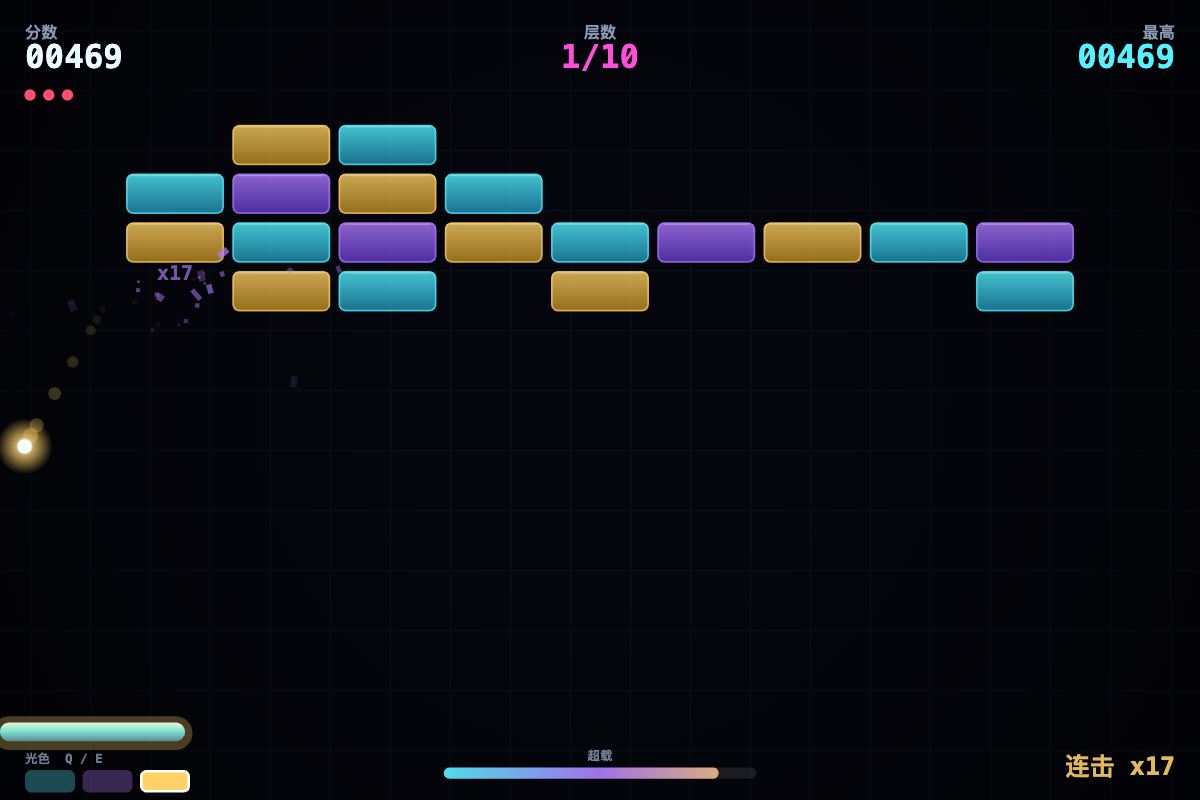
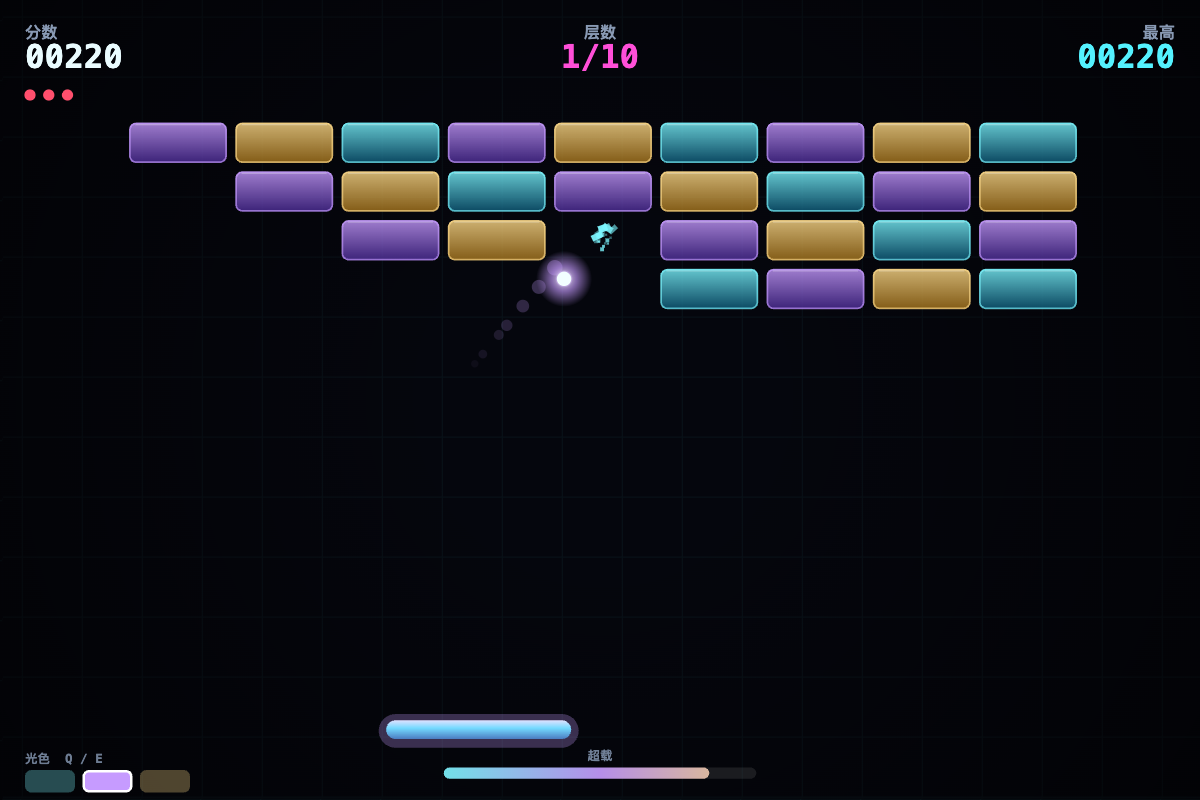
Ambient music synth, combo-fed ball speed, two hand-drawn layouts, warmer tones

diff --git a/index.html b/index.html
@@ -80,6 +80,10 @@ const Sound = {
   resume() {
     if (this.ctx && this.ctx.state === 'suspended') this.ctx.resume();
   },
+  toggle() {
+    this.on = !this.on;
+    if (this.on) { Music.start(); Sound.card(); } else { Music.stop(); }
+  },
   tone(freq, dur, type, gain, slideTo) {
     if (!this.on || !this.ctx) return;
     const t = this.ctx.currentTime;
@@ -108,6 +112,60 @@ const Sound = {
   resonance() { this.tone(880, 0.09, 'triangle', 0.05, 1760); },
   shift() { this.tone(560, 0.05, 'sine', 0.03, 760); },
   overdrive() { this.tone(120, 0.45, 'sawtooth', 0.08, 1600); },
+};
+
+/* ---------------------------- music ---------------------------- */
+
+/* A slow pentatonic pulse synth — no files, all oscillators. */
+const Music = {
+  timer: null,
+  step: 0,
+  base: [110.00, 130.81, 146.83, 164.81, 196.00, 220.00],
+  pattern: [0, 2, 4, 5, 3, 2, 1, 3],
+  start() {
+    if (!Sound.ctx || this.timer) return;
+    this.timer = setInterval(() => this.tick(), 300);
+  },
+  stop() {
+    if (this.timer) { clearInterval(this.timer); this.timer = null; }
+  },
+  tick() {
+    if (!Sound.on || !Sound.ctx) return;
+    const t = Sound.ctx.currentTime;
+    const idx = this.pattern[this.step % this.pattern.length];
+    const freq = this.base[idx] * (1 + Math.min(G.level, 20) * 0.012);
+    const osc = Sound.ctx.createOscillator();
+    const g = Sound.ctx.createGain();
+    const filt = Sound.ctx.createBiquadFilter();
+    filt.type = 'lowpass';
+    filt.frequency.setValueAtTime(900, t);
+    osc.type = 'triangle';
+    osc.frequency.setValueAtTime(freq, t);
+    g.gain.setValueAtTime(0.0001, t);
+    g.gain.exponentialRampToValueAtTime(0.014, t + 0.03);
+    g.gain.exponentialRampToValueAtTime(0.0001, t + 0.55);
+    osc.connect(filt);
+    filt.connect(g);
+    g.connect(Sound.ctx.destination);
+    osc.start(t);
+    osc.stop(t + 0.6);
+
+    // a soft shimmer an octave up every other bar
+    if (this.step % 8 === 0) {
+      const o2 = Sound.ctx.createOscillator();
+      const g2 = Sound.ctx.createGain();
+      o2.type = 'sine';
+      o2.frequency.setValueAtTime(freq * 4, t);
+      g2.gain.setValueAtTime(0.0001, t);
+      g2.gain.exponentialRampToValueAtTime(0.007, t + 0.05);
+      g2.gain.exponentialRampToValueAtTime(0.0001, t + 1.1);
+      o2.connect(g2);
+      g2.connect(Sound.ctx.destination);
+      o2.start(t);
+      o2.stop(t + 1.2);
+    }
+    this.step += 1;
+  },
 };
 
 /* --------------------------- upgrades --------------------------- */
@@ -160,9 +218,9 @@ const CARDS = [
 /* Light tones: the prism splits white light into three. Brick tone and ball tone
    matching is the core skill of the game — same tone deals double damage. */
 const TONES = [
-  { name: 'CYAN',    hex: '#54f2ff', dim: '#1e8db0' },
-  { name: 'VIOLET',  hex: '#b07bff', dim: '#5c38c4' },
-  { name: 'AMBER',   hex: '#ffd166', dim: '#b8871f' },
+  { name: 'CYAN',    hex: '#7cf6ff', dim: '#0d5a78' },
+  { name: 'VIOLET',  hex: '#c69bff', dim: '#4a2a94' },
+  { name: 'AMBER',   hex: '#ffdb8a', dim: '#a3721a' },
 ];
 const FINAL_FLOOR = 10;
 
@@ -439,7 +497,8 @@ function bricksLeft() {
 }
 
 function ballSpeed() {
-  return clamp(520 + (G.level - 1) * 10, 520, 820) * G.upg.speedMul;
+  const comboBoost = 1 + Math.min(G.combo || 0, 30) * 0.004;   // up to +12%
+  return clamp(520 + (G.level - 1) * 10, 520, 820) * G.upg.speedMul * comboBoost;
 }
 
 function paddleWidth() {
@@ -460,6 +519,14 @@ function cellOn(pattern, r, c, rows, cols) {
     case 4: return (r === 0 || r === rows - 1 || c === 0 || c === cols - 1) ? true : (r + c) % 3 !== 1;
     case 5: return c % 4 !== 3;                                   // vertical lanes
     case 6: return (r + c) % 4 !== 0 || r % 2 === 0;              // diagonal weave
+    case 7: {                                                     // prism pyramid
+      const map = ['....#....', '...###...', '..#####..', '.#######.', '#########', '#########'];
+      return map[Math.min(r, map.length - 1)][c] === '#';
+    }
+    case 8: {                                                     // hourglass
+      const map = ['#########', '#########', '.##...##.', '..#####..', '...###...', '....#....'];
+      return map[Math.min(r, map.length - 1)][c] === '#';
+    }
     default: return true;
   }
 }
@@ -470,7 +537,7 @@ function buildLevel(level) {
   const startX = (W - totalW) / 2;
   const startY = 100;
   const rows = clamp(4 + Math.floor((level - 1) / 2), 4, 7);
-  const pattern = (level - 1) % 7;
+  const pattern = (level - 1) % 9;
   const bricks = [];
   const sweepRow = level >= 4 ? rows - 1 : -1;
 
@@ -621,6 +688,7 @@ function beginLevel() {
   G.paddle.w = paddleWidth();
   resetBalls();
   G.state = 'playing';
+  Music.start();
   G.tip = G.level === 1 ? 5.5 : 0;
   burst(W / 2, H - 62, 14, '#54f2ff', 90);
 }
@@ -834,6 +902,7 @@ function chooseCard(i) {
   G.level += 1;
   if (!G.endless && G.level > FINAL_FLOOR) {
     G.state = 'victory';
+    Music.stop();
     G.wonAt = G.time;
     G.stats.wins = (G.stats.wins || 0) + 1;
     saveBest();
@@ -1119,6 +1188,7 @@ function updateBalls(dt) {
     Sound.lose();
     if (G.lives <= 0) {
       G.state = 'gameover';
+      Music.stop();
       G.deadAt = G.time;
       haptic(60);
       saveBest();
@@ -2175,8 +2245,7 @@ window.addEventListener('keydown', (e) => {
     return;
   }
   if (e.key === 'm' || e.key === 'M') {
-    Sound.on = !Sound.on;
-    if (Sound.on) Sound.card();
+    Sound.toggle();
     return;
   }
   if (e.key === ' ' || e.key === 'Enter') {
